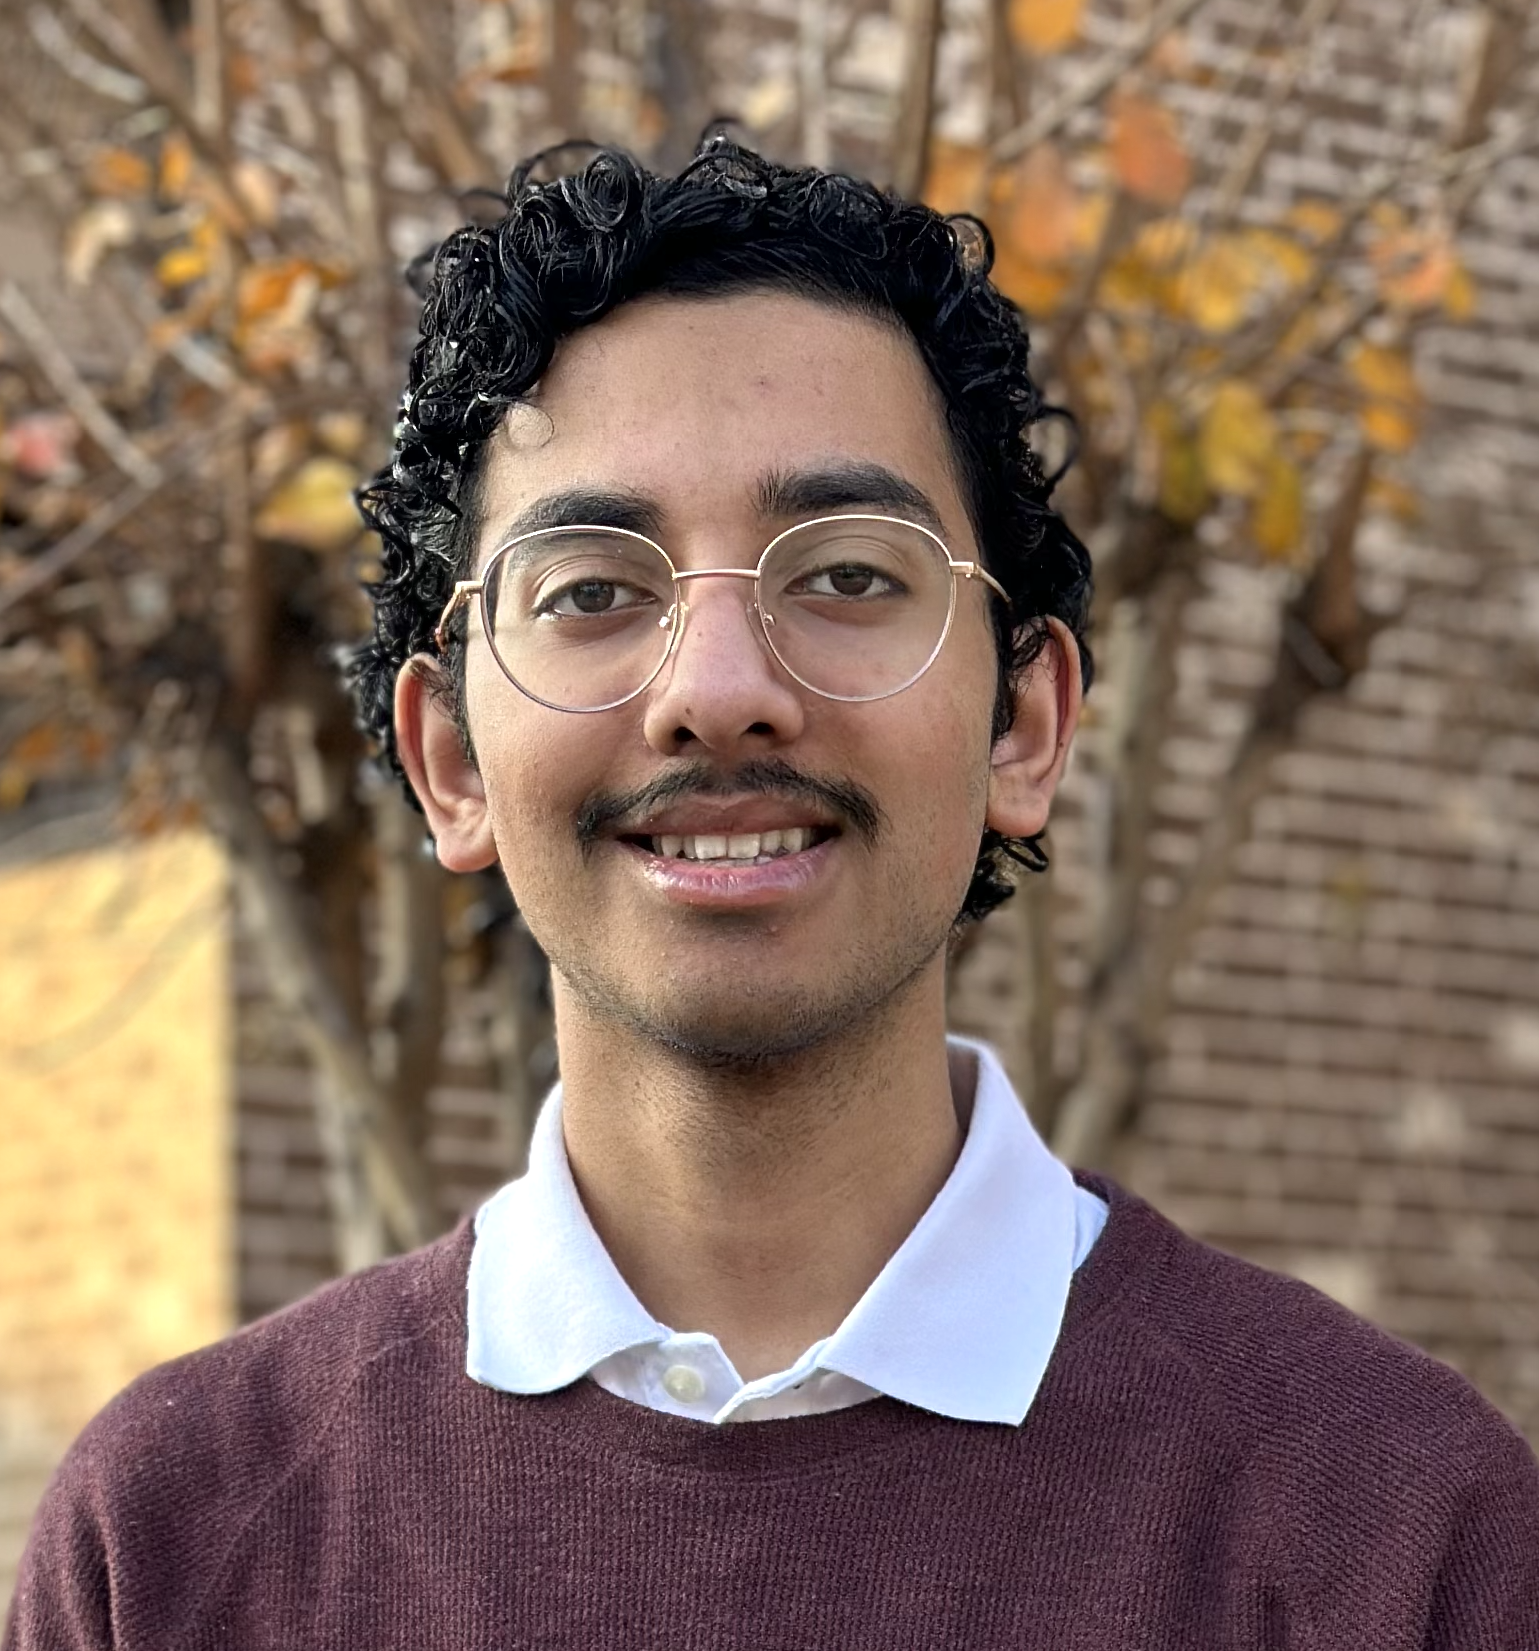
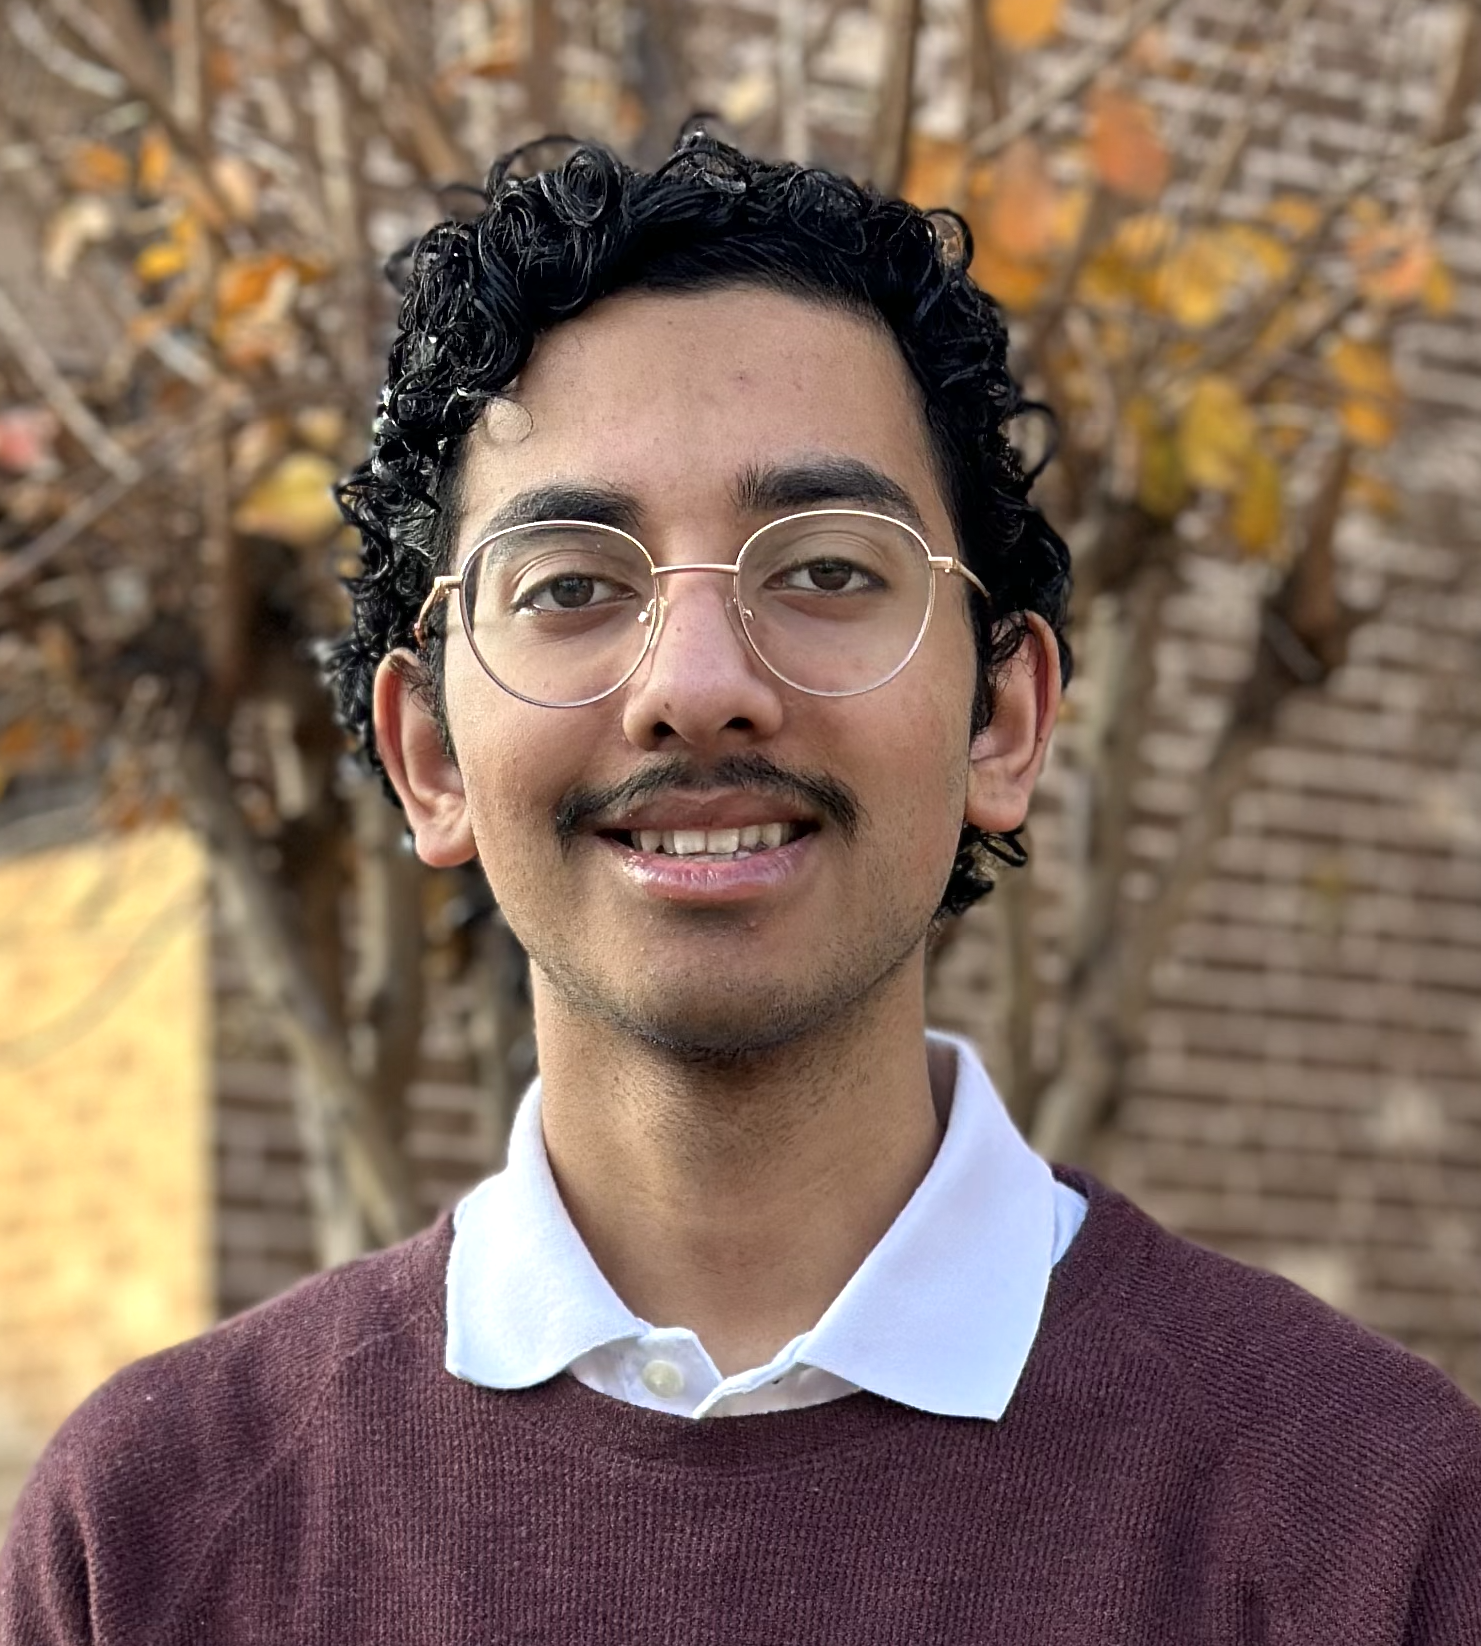
Misc edits

diff --git a/assets/scss/custom.scss b/assets/scss/custom.scss
@@ -1,0 +1,24 @@
+/* Force hamburger menu on all screen sizes */
+.navbar-toggler {
+  display: block !important;
+}
+
+.navbar-collapse {
+  display: none !important;
+}
+
+.navbar-collapse.show {
+  display: block !important;
+}
+/* Animate hamburger into X */
+.navbar-toggler-icon {
+  transition: transform 0.3s ease;
+}
+
+.navbar-toggler.collapsed .navbar-toggler-icon {
+  transform: rotate(0deg);
+}
+
+.navbar-toggler:not(.collapsed) .navbar-toggler-icon {
+  transform: rotate(90deg);
+}
